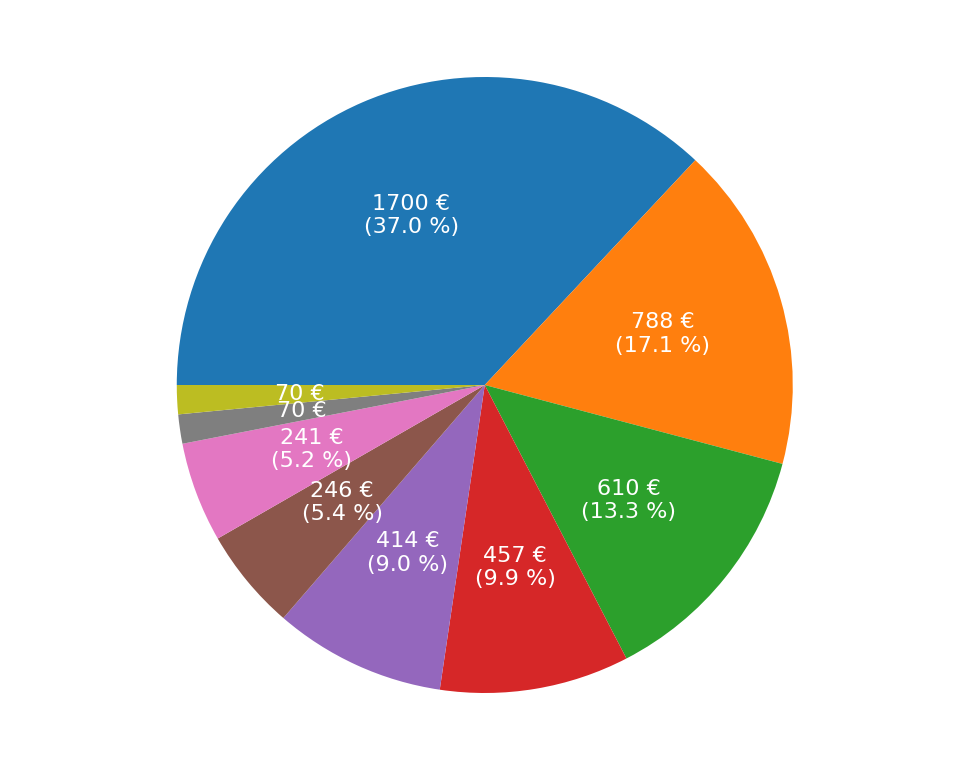
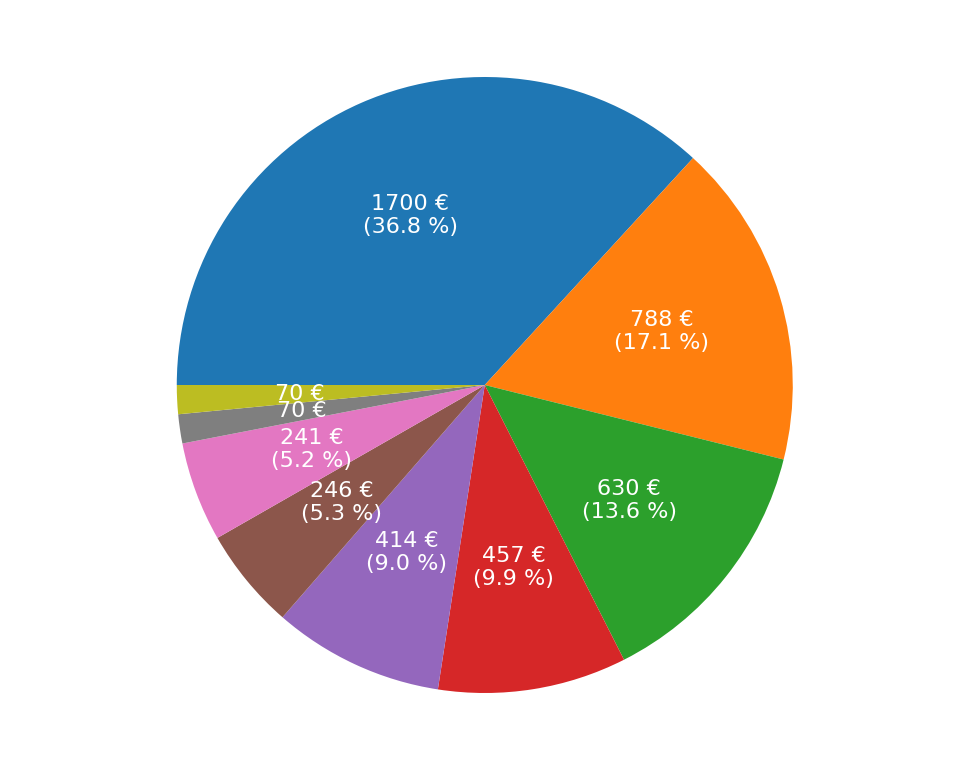
Update 26/02

diff --git a/page_compte.html b/page_compte.html
@@ -270,24 +270,6 @@
     </tr>
     <tr>
       <td>14/02/2022</td>
-      <td>Lasagnes Stas-Dubois Hadelin</td>
-      <td><a href="subpage_8.html">Lasagnes</a></td>
-      <td style="color:#34FF27"">30.00 €</td>
-    </tr>
-    <tr>
-      <td>14/02/2022</td>
-      <td>Payement folklo</td>
-      <td><a href="subpage_0.html">24H vélo</a></td>
-      <td style="color:#FA413B"">-15.00 €</td>
-    </tr>
-    <tr>
-      <td>14/02/2022</td>
-      <td>Remboursement Eclaireurs</td>
-      <td><a href="subpage_0.html">24H vélo</a></td>
-      <td style="color:#34FF27"">157.50 €</td>
-    </tr>
-    <tr>
-      <td>14/02/2022</td>
       <td>Lasagnes Hauglustaine Olivier</td>
       <td><a href="subpage_8.html">Lasagnes</a></td>
       <td style="color:#34FF27"">40.00 €</td>
@@ -303,6 +285,24 @@
       <td>Lasagnes Lust Sarah</td>
       <td><a href="subpage_8.html">Lasagnes</a></td>
       <td style="color:#34FF27"">15.00 €</td>
+    </tr>
+    <tr>
+      <td>14/02/2022</td>
+      <td>Remboursement Eclaireurs</td>
+      <td><a href="subpage_0.html">24H vélo</a></td>
+      <td style="color:#34FF27"">157.50 €</td>
+    </tr>
+    <tr>
+      <td>14/02/2022</td>
+      <td>Payement folklo</td>
+      <td><a href="subpage_0.html">24H vélo</a></td>
+      <td style="color:#FA413B"">-15.00 €</td>
+    </tr>
+    <tr>
+      <td>14/02/2022</td>
+      <td>Lasagnes Stas-Dubois Hadelin</td>
+      <td><a href="subpage_8.html">Lasagnes</a></td>
+      <td style="color:#34FF27"">30.00 €</td>
     </tr>
     <tr>
       <td>15/02/2022</td>
@@ -336,33 +336,15 @@
     </tr>
     <tr>
       <td>18/02/2022</td>
-      <td>Vente Calendriers 18/02</td>
-      <td><a href="subpage_4.html">Calendriers</a></td>
-      <td style="color:#34FF27"">6.00 €</td>
-    </tr>
-    <tr>
-      <td>18/02/2022</td>
       <td>Ventes Jus 18/02</td>
       <td><a href="subpage_7.html">Jus</a></td>
       <td style="color:#34FF27"">6.00 €</td>
     </tr>
     <tr>
-      <td>21/02/2022</td>
-      <td>Lasagnes Devreese Philippe</td>
-      <td><a href="subpage_8.html">Lasagnes</a></td>
-      <td style="color:#34FF27"">40.00 €</td>
-    </tr>
-    <tr>
-      <td>21/02/2022</td>
-      <td>Lasagnes Evrard Ariane</td>
-      <td><a href="subpage_8.html">Lasagnes</a></td>
-      <td style="color:#34FF27"">20.00 €</td>
-    </tr>
-    <tr>
-      <td>21/02/2022</td>
-      <td>Lasagnes Stas Louis</td>
-      <td><a href="subpage_8.html">Lasagnes</a></td>
-      <td style="color:#34FF27"">20.00 €</td>
+      <td>18/02/2022</td>
+      <td>Vente Calendriers 18/02</td>
+      <td><a href="subpage_4.html">Calendriers</a></td>
+      <td style="color:#34FF27"">6.00 €</td>
     </tr>
     <tr>
       <td>21/02/2022</td>
@@ -377,10 +359,22 @@
       <td style="color:#34FF27"">20.00 €</td>
     </tr>
     <tr>
-      <td>22/02/2022</td>
-      <td>Lasagnes Sirou Cédric</td>
+      <td>21/02/2022</td>
+      <td>Lasagnes Evrard Ariane</td>
       <td><a href="subpage_8.html">Lasagnes</a></td>
-      <td style="color:#34FF27"">15.00 €</td>
+      <td style="color:#34FF27"">20.00 €</td>
+    </tr>
+    <tr>
+      <td>21/02/2022</td>
+      <td>Lasagnes Devreese Philippe</td>
+      <td><a href="subpage_8.html">Lasagnes</a></td>
+      <td style="color:#34FF27"">40.00 €</td>
+    </tr>
+    <tr>
+      <td>21/02/2022</td>
+      <td>Lasagnes Stas Louis</td>
+      <td><a href="subpage_8.html">Lasagnes</a></td>
+      <td style="color:#34FF27"">20.00 €</td>
     </tr>
     <tr>
       <td>22/02/2022</td>
@@ -396,9 +390,9 @@
     </tr>
     <tr>
       <td>22/02/2022</td>
-      <td>Lasagnes Possocco Emma</td>
+      <td>Lasagnes Ebstein Véronique</td>
       <td><a href="subpage_8.html">Lasagnes</a></td>
-      <td style="color:#34FF27"">20.00 €</td>
+      <td style="color:#34FF27"">10.00 €</td>
     </tr>
     <tr>
       <td>22/02/2022</td>
@@ -408,9 +402,15 @@
     </tr>
     <tr>
       <td>22/02/2022</td>
-      <td>Lasagnes Ebstein Véronique</td>
+      <td>Lasagnes Sirou Cédric</td>
       <td><a href="subpage_8.html">Lasagnes</a></td>
-      <td style="color:#34FF27"">10.00 €</td>
+      <td style="color:#34FF27"">15.00 €</td>
+    </tr>
+    <tr>
+      <td>22/02/2022</td>
+      <td>Lasagnes Possocco Emma</td>
+      <td><a href="subpage_8.html">Lasagnes</a></td>
+      <td style="color:#34FF27"">20.00 €</td>
     </tr>
     <tr>
       <td>23/02/2022</td>
@@ -425,6 +425,12 @@
       <td style="color:#34FF27"">20.00 €</td>
     </tr>
     <tr>
+      <td>28/02/2022</td>
+      <td>Lasagnes Flora Denis</td>
+      <td><a href="subpage_8.html">Lasagnes</a></td>
+      <td style="color:#34FF27"">20.00 €</td>
+    </tr>
+    <tr>
       <td>17/12/2022</td>
       <td>Ventes Jus 17/02</td>
       <td><a href="subpage_7.html">Jus</a></td>
@@ -434,7 +440,7 @@
       <td></td>
       <td>Total</td>
       <td></td>
-      <td style="color:#34FF27"">4114.50 €</td>
+      <td style="color:#34FF27"">4134.50 €</td>
     </tr>
   </tbody>
 </table>

diff --git a/page_total.html b/page_total.html
@@ -414,14 +414,14 @@
     </tr>
     <tr>
       <td>18/02/2022</td>
-      <td>Ventes Jus 18/02</td>
-      <td><a href="subpage_7.html">Jus</a></td>
+      <td>Vente Calendriers 18/02</td>
+      <td><a href="subpage_4.html">Calendriers</a></td>
       <td style="color:#34FF27"">6.00 €</td>
     </tr>
     <tr>
       <td>18/02/2022</td>
-      <td>Vente Calendriers 18/02</td>
-      <td><a href="subpage_4.html">Calendriers</a></td>
+      <td>Ventes Jus 18/02</td>
+      <td><a href="subpage_7.html">Jus</a></td>
       <td style="color:#34FF27"">6.00 €</td>
     </tr>
     <tr>
@@ -456,15 +456,27 @@
     </tr>
     <tr>
       <td>22/02/2022</td>
-      <td>Ventes Jus 22/02</td>
-      <td><a href="subpage_7.html">Jus</a></td>
-      <td style="color:#34FF27"">9.50 €</td>
+      <td>Lasagnes Possocco Emma</td>
+      <td><a href="subpage_8.html">Lasagnes</a></td>
+      <td style="color:#34FF27"">20.00 €</td>
     </tr>
     <tr>
       <td>22/02/2022</td>
-      <td>Lasagnes Sirou Cédric</td>
+      <td>Lasagnes Possocco Emma</td>
       <td><a href="subpage_8.html">Lasagnes</a></td>
-      <td style="color:#34FF27"">15.00 €</td>
+      <td style="color:#34FF27"">10.00 €</td>
+    </tr>
+    <tr>
+      <td>22/02/2022</td>
+      <td>Lasagnes Ebstein Véronique</td>
+      <td><a href="subpage_8.html">Lasagnes</a></td>
+      <td style="color:#34FF27"">10.00 €</td>
+    </tr>
+    <tr>
+      <td>22/02/2022</td>
+      <td>Ventes Jus 22/02</td>
+      <td><a href="subpage_7.html">Jus</a></td>
+      <td style="color:#34FF27"">9.50 €</td>
     </tr>
     <tr>
       <td>22/02/2022</td>
@@ -474,21 +486,9 @@
     </tr>
     <tr>
       <td>22/02/2022</td>
-      <td>Lasagnes Possocco Emma</td>
+      <td>Lasagnes Sirou Cédric</td>
       <td><a href="subpage_8.html">Lasagnes</a></td>
-      <td style="color:#34FF27"">10.00 €</td>
-    </tr>
-    <tr>
-      <td>22/02/2022</td>
-      <td>Lasagnes Possocco Emma</td>
-      <td><a href="subpage_8.html">Lasagnes</a></td>
-      <td style="color:#34FF27"">20.00 €</td>
-    </tr>
-    <tr>
-      <td>22/02/2022</td>
-      <td>Lasagnes Ebstein Véronique</td>
-      <td><a href="subpage_8.html">Lasagnes</a></td>
-      <td style="color:#34FF27"">10.00 €</td>
+      <td style="color:#34FF27"">15.00 €</td>
     </tr>
     <tr>
       <td>23/02/2022</td>
@@ -503,6 +503,12 @@
       <td style="color:#34FF27"">20.00 €</td>
     </tr>
     <tr>
+      <td>28/02/2022</td>
+      <td>Lasagnes Flora Denis</td>
+      <td><a href="subpage_8.html">Lasagnes</a></td>
+      <td style="color:#34FF27"">20.00 €</td>
+    </tr>
+    <tr>
       <td>17/12/2022</td>
       <td>Ventes Jus 17/02</td>
       <td><a href="subpage_7.html">Jus</a></td>
@@ -512,7 +518,7 @@
       <td></td>
       <td>Total</td>
       <td></td>
-      <td style="color:#34FF27"">4292.13 €</td>
+      <td style="color:#34FF27"">4312.13 €</td>
     </tr>
   </tbody>
 </table>

diff --git a/index.html b/index.html
@@ -9,7 +9,7 @@
 <body>
     <h1>Comptes Pis</h1>
 
-    <button onclick="location.href='page_compte.html'" type="button" class="BasicButton">Compte<br>4114.50 €</button>
+    <button onclick="location.href='page_compte.html'" type="button" class="BasicButton">Compte<br>4134.50 €</button>
     <button onclick="location.href='page_cash.html'" type="button" class="BasicButton">Cash<br>80.83 €</button>
     <button onclick="location.href='page_materiel.html'" type="button" class="BasicButton">Matériel<br>96.80 €</button>
     <br><br><br><br><br>
@@ -18,7 +18,7 @@
         <button onclick="location.href='page_graphs.html'" type="button" class="CategoryButton">Graphes</button>
     </p>
     <br><br><br>
-    <button onclick="location.href='page_total.html'" type="button" class="TotalButton">Total 4292.13 €</button>
+    <button onclick="location.href='page_total.html'" type="button" class="TotalButton">Total 4312.13 €</button>
     
     
 </body>

diff --git a/subpage_8.html b/subpage_8.html
@@ -132,9 +132,14 @@
       <td style="color:#34FF27"">20.00 €</td>
     </tr>
     <tr>
+      <td>28/02/2022</td>
+      <td>Lasagnes Flora Denis</td>
+      <td style="color:#34FF27"">20.00 €</td>
+    </tr>
+    <tr>
       <td></td>
       <td>Recettes Totales</td>
-      <td style="color:#34FF27"">610.00 €</td>
+      <td style="color:#34FF27"">630.00 €</td>
     </tr>
     <tr>
       <td></td>
@@ -144,7 +149,7 @@
     <tr>
       <td></td>
       <td>Total</td>
-      <td style="color:#34FF27"">610.00 €</td>
+      <td style="color:#34FF27"">630.00 €</td>
     </tr>
   </tbody>
 </table>

diff --git a/page_by_activity.html b/page_by_activity.html
@@ -84,7 +84,7 @@
     <tr>
       <td>11/02/2022</td>
       <td><a href="subpage_8.html">Lasagnes</a></td>
-      <td style="color:#34FF27"">610.00 €</td>
+      <td style="color:#34FF27"">630.00 €</td>
     </tr>
     <tr>
       <td>15/02/2022</td>
@@ -94,7 +94,7 @@
     <tr>
       <td></td>
       <td>Total</td>
-      <td style="color:#34FF27"">4292.13 €</td>
+      <td style="color:#34FF27"">4312.13 €</td>
     </tr>
   </tbody>
 </table>
